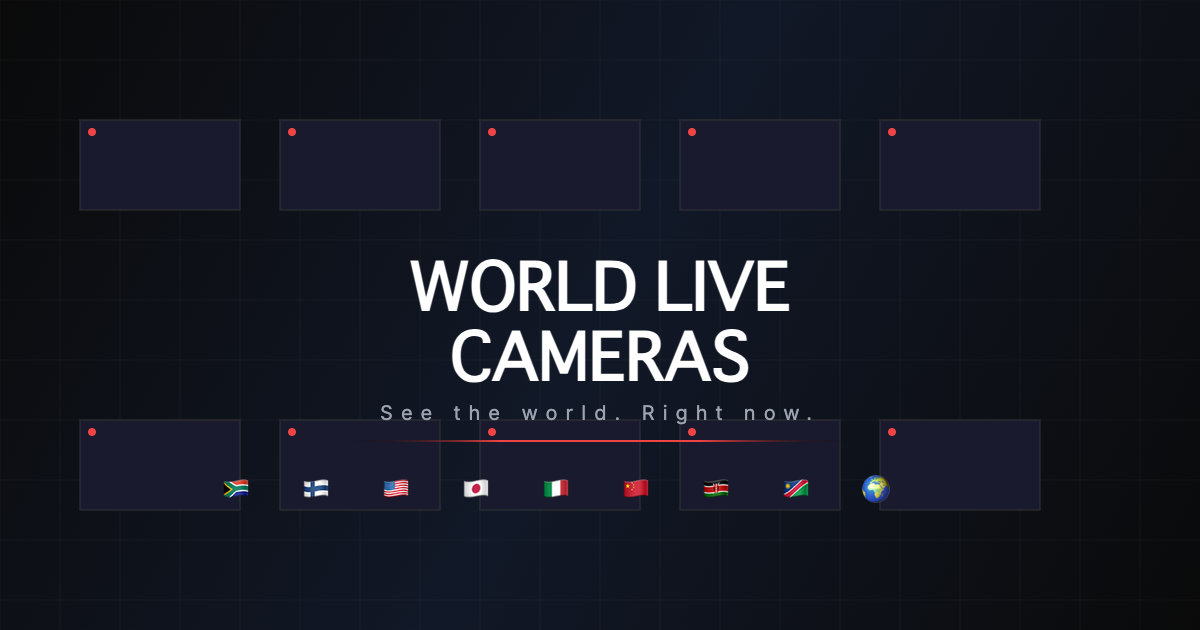
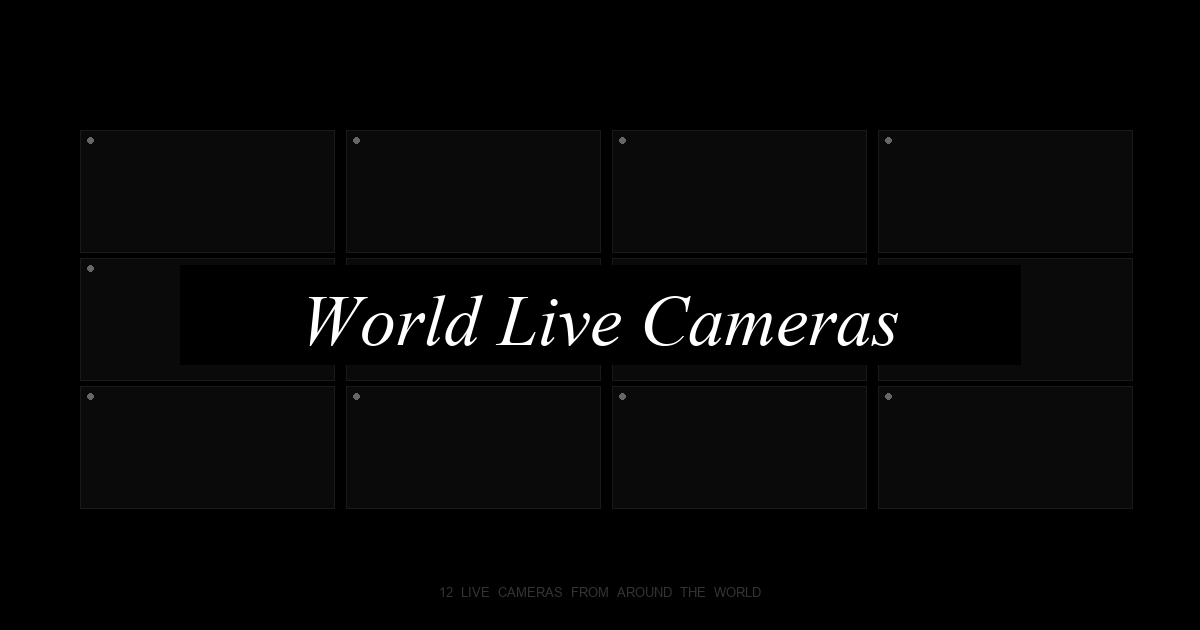
Antonsson Noirデザインに全面リニューアル・4列フルスクリーンレイアウト

diff --git a/src/components/CameraCard.tsx b/src/components/CameraCard.tsx
@@ -1,6 +1,6 @@
 import { useEffect, useState } from 'react';
 import type { Camera } from '../data/cameras';
-import { categoryLabels, categoryColors } from '../data/cameras';
+import { categoryLabels } from '../data/cameras';
 
 interface CameraCardProps {
   camera: Camera;
@@ -38,37 +38,39 @@ export function CameraCard({ camera, onSelect }: CameraCardProps) {
 
   return (
     <div
-      className="group cursor-pointer rounded-lg overflow-hidden bg-[#141414] border border-[#2a2a2a] hover:border-[#444] transition-all duration-300 hover:scale-[1.02]"
+      className="group relative cursor-pointer overflow-hidden bg-black border border-white/[0.06] hover:border-white/20 transition-all duration-500"
       onClick={() => onSelect(camera)}
     >
-      <div className="relative aspect-video bg-black">
-        <iframe
-          src={`https://www.youtube.com/embed/${camera.videoId}?autoplay=1&mute=1&controls=0&modestbranding=1&rel=0&loop=1`}
-          allow="autoplay; encrypted-media"
-          allowFullScreen
-          className="absolute inset-0 w-full h-full pointer-events-none"
-          loading="lazy"
-        />
+      {/* iframe fills the entire card */}
+      <iframe
+        src={`https://www.youtube.com/embed/${camera.videoId}?autoplay=1&mute=1&controls=0&modestbranding=1&rel=0&loop=1`}
+        allow="autoplay; encrypted-media"
+        allowFullScreen
+        className="absolute inset-0 w-full h-full pointer-events-none"
+        loading="lazy"
+      />
 
-        <div className="absolute top-2 left-2 flex items-center gap-1.5 bg-black/70 backdrop-blur-sm px-2 py-1 rounded text-xs font-mono">
-          <span className="live-dot w-2 h-2 rounded-full bg-red-500 inline-block" />
-          <span className="text-red-400 font-bold tracking-wider">LIVE</span>
-        </div>
-
-        <div className="absolute top-2 right-2 bg-black/70 backdrop-blur-sm px-2 py-1 rounded text-xs font-mono text-neutral-300">
-          {localTime}
-        </div>
+      {/* LIVE badge */}
+      <div className="absolute top-2 left-2 flex items-center gap-1.5 bg-black/60 backdrop-blur-sm px-2 py-0.5 text-[9px] tracking-widest z-10">
+        <span className="live-dot w-1.5 h-1.5 rounded-full bg-white inline-block" />
+        <span className="text-white/80 font-medium">LIVE</span>
       </div>
 
-      <div className="p-3">
-        <div className="flex items-start justify-between gap-2">
+      {/* Time */}
+      <div className="absolute top-2 right-2 bg-black/60 backdrop-blur-sm px-2 py-0.5 text-[9px] font-light text-white/50 tracking-wider z-10">
+        {localTime}
+      </div>
+
+      {/* Bottom overlay — location info */}
+      <div className="absolute bottom-0 left-0 right-0 bg-gradient-to-t from-black/80 via-black/40 to-transparent px-3 pb-2 pt-6 z-10">
+        <div className="flex items-end justify-between gap-2">
           <div className="min-w-0">
-            <h3 className="text-sm font-semibold text-white truncate">
+            <h3 className="font-display text-xs lg:text-sm font-normal text-white/90 truncate italic">
               {camera.flag} {camera.name}
             </h3>
-            <p className="text-xs text-neutral-500 mt-0.5">{camera.country}</p>
+            <p className="text-[8px] lg:text-[9px] text-white/30 mt-0.5 tracking-wider uppercase font-light">{camera.country}</p>
           </div>
-          <span className={`shrink-0 text-[10px] px-2 py-0.5 rounded-full font-medium ${categoryColors[camera.category]}`}>
+          <span className="shrink-0 text-[7px] lg:text-[8px] px-1.5 py-0.5 border border-white/10 text-white/30 tracking-widest uppercase font-light">
             {categoryLabels[camera.category]}
           </span>
         </div>

diff --git a/src/components/Modal.tsx b/src/components/Modal.tsx
@@ -1,6 +1,6 @@
 import { useEffect } from 'react';
 import type { Camera } from '../data/cameras';
-import { categoryLabels, categoryColors } from '../data/cameras';
+import { categoryLabels } from '../data/cameras';
 
 interface ModalProps {
   camera: Camera | null;
@@ -25,7 +25,7 @@ export function Modal({ camera, onClose }: ModalProps) {
 
   return (
     <div
-      className="fixed inset-0 z-50 flex items-center justify-center bg-black/90 backdrop-blur-sm"
+      className="fixed inset-0 z-50 flex items-center justify-center bg-black/95 backdrop-blur-md"
       onClick={onClose}
     >
       <div
@@ -34,12 +34,12 @@ export function Modal({ camera, onClose }: ModalProps) {
       >
         <button
           onClick={onClose}
-          className="absolute -top-10 right-0 text-neutral-400 hover:text-white text-2xl font-mono cursor-pointer"
+          className="absolute -top-12 right-0 text-white/20 hover:text-white/60 text-sm tracking-[0.3em] uppercase cursor-pointer transition-colors"
         >
-          ✕
+          Close
         </button>
 
-        <div className="aspect-video bg-black rounded-lg overflow-hidden">
+        <div className="aspect-video bg-black overflow-hidden border border-white/[0.06]">
           <iframe
             src={`https://www.youtube.com/embed/${camera.videoId}?autoplay=1&mute=0&controls=1&modestbranding=1&rel=0`}
             allow="autoplay; encrypted-media"
@@ -48,16 +48,16 @@ export function Modal({ camera, onClose }: ModalProps) {
           />
         </div>
 
-        <div className="mt-3 flex items-center justify-between">
+        <div className="mt-4 flex items-center justify-between">
           <div>
-            <h2 className="text-lg font-semibold text-white">
+            <h2 className="font-display text-xl font-normal text-white/90 italic">
               {camera.flag} {camera.name}
             </h2>
-            <p className="text-sm text-neutral-400">
-              {camera.country} · {camera.channel}
+            <p className="text-[11px] text-white/25 mt-1 tracking-wider uppercase font-light">
+              {camera.country} &mdash; {camera.channel}
             </p>
           </div>
-          <span className={`text-xs px-3 py-1 rounded-full font-medium ${categoryColors[camera.category]}`}>
+          <span className="text-[10px] px-3 py-1 border border-white/10 text-white/30 tracking-[0.2em] uppercase font-light">
             {categoryLabels[camera.category]}
           </span>
         </div>

diff --git a/src/App.tsx b/src/App.tsx
@@ -15,48 +15,25 @@ function App() {
   );
 
   return (
-    <div className="min-h-screen bg-[#0a0a0a]">
-      {/* Header */}
-      <header className="pt-10 pb-6 text-center">
-        <h1 className="text-3xl md:text-4xl font-bold tracking-[0.3em] text-white font-mono">
-          WORLD LIVE CAMERAS
+    <div className="h-screen bg-black flex flex-col overflow-hidden">
+      {/* Header + Filter */}
+      <header className="shrink-0 pt-6 pb-4 text-center">
+        <h1 className="font-display text-2xl md:text-3xl lg:text-4xl font-normal tracking-wide text-white italic">
+          World Live Cameras
         </h1>
-        <p className="mt-2 text-sm text-neutral-500 tracking-widest uppercase">
-          See the world. Right now.
-        </p>
+        <div className="mt-3 px-4">
+          <CategoryFilter selected={filter} onChange={setFilter} />
+        </div>
       </header>
 
-      {/* Filter */}
-      <div className="px-4 pb-8">
-        <CategoryFilter selected={filter} onChange={setFilter} />
-      </div>
-
-      {/* Grid */}
-      <main className="max-w-7xl mx-auto px-4 pb-12">
-        <div className="grid grid-cols-1 md:grid-cols-2 lg:grid-cols-3 gap-5">
+      {/* Grid — fills remaining viewport */}
+      <main className="flex-1 min-h-0 px-2 pb-2">
+        <div className="grid grid-cols-1 md:grid-cols-2 lg:grid-cols-4 gap-1.5 h-full auto-rows-fr">
           {filtered.map((cam) => (
             <CameraCard key={cam.id} camera={cam} onSelect={setSelected} />
           ))}
         </div>
       </main>
-
-      {/* Footer */}
-      <footer className="border-t border-[#1e1e1e] py-6 text-center text-xs text-neutral-600">
-        <p>Powered by YouTube Live</p>
-        <div className="mt-2 flex flex-wrap justify-center gap-3">
-          {cameras.map((cam) => (
-            <a
-              key={cam.id}
-              href={cam.channelUrl}
-              target="_blank"
-              rel="noopener noreferrer"
-              className="text-neutral-500 hover:text-neutral-300 transition-colors"
-            >
-              {cam.channel}
-            </a>
-          ))}
-        </div>
-      </footer>
 
       {/* Modal */}
       <Modal camera={selected} onClose={() => setSelected(null)} />

diff --git a/src/components/CategoryFilter.tsx b/src/components/CategoryFilter.tsx
@@ -12,20 +12,20 @@ const allCategories: (Category | 'all')[] = [
 
 export function CategoryFilter({ selected, onChange }: CategoryFilterProps) {
   return (
-    <div className="flex flex-wrap gap-2 justify-center">
+    <div className="flex flex-wrap gap-3 justify-center">
       {allCategories.map((cat) => {
         const isActive = selected === cat;
         return (
           <button
             key={cat}
             onClick={() => onChange(cat)}
-            className={`px-4 py-1.5 rounded-full text-sm font-medium transition-all cursor-pointer ${
+            className={`px-4 py-1.5 text-[11px] tracking-[0.2em] uppercase font-light transition-all duration-300 cursor-pointer border ${
               isActive
-                ? 'bg-white text-black'
-                : 'bg-[#1e1e1e] text-neutral-400 hover:bg-[#2a2a2a] hover:text-neutral-200'
+                ? 'border-white/40 text-white bg-white/5'
+                : 'border-white/[0.06] text-white/25 hover:border-white/15 hover:text-white/50'
             }`}
           >
-            {cat === 'all' ? 'ALL' : categoryLabels[cat]}
+            {cat === 'all' ? 'All' : categoryLabels[cat]}
           </button>
         );
       })}

diff --git a/index.html b/index.html
@@ -17,10 +17,10 @@
     <link rel="icon" type="image/png" href="favicon.png" />
     <link rel="apple-touch-icon" sizes="180x180" href="apple-touch-icon.png" />
     <link rel="manifest" href="manifest.json" />
-    <meta name="theme-color" content="#0a0a0a" />
+    <meta name="theme-color" content="#000000" />
     <link rel="preconnect" href="https://fonts.googleapis.com" />
     <link rel="preconnect" href="https://fonts.gstatic.com" crossorigin />
-    <link href="https://fonts.googleapis.com/css2?family=Inter:wght@400;500;600;700&family=JetBrains+Mono:wght@400;700&display=swap" rel="stylesheet" />
+    <link href="https://fonts.googleapis.com/css2?family=Inter:wght@300;400;500&family=Playfair+Display:ital,wght@0,400;0,700;1,400&display=swap" rel="stylesheet" />
   </head>
   <body>
     <div id="root"></div>

diff --git a/src/index.css b/src/index.css
@@ -1,10 +1,11 @@
 @import "tailwindcss";
 
 body {
-  background-color: #0a0a0a;
-  color: #e5e5e5;
+  background-color: #000000;
+  color: #ffffff;
   margin: 0;
   font-family: 'Inter', system-ui, -apple-system, sans-serif;
+  font-weight: 300;
 }
 
 @keyframes pulse-live {
@@ -14,4 +15,8 @@ body {
 
 .live-dot {
   animation: pulse-live 1.5s ease-in-out infinite;
+}
+
+.font-display {
+  font-family: 'Playfair Display', Georgia, serif;
 }
